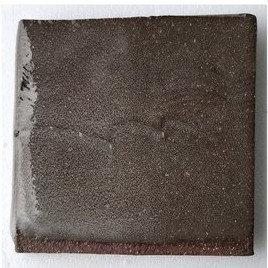
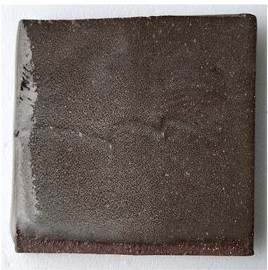
Published multiple files

diff --git a/src/site/notes/Ceramics/Glaze Pricing.md b/src/site/notes/Ceramics/Glaze Pricing.md
@@ -2,6 +2,7 @@
 {"dg-publish":true,"permalink":"/ceramics/glaze-pricing/"}
 ---
 
+
 Saturday, 28th June 2025 
 01:36 am
 # Oxidation Clear Glaze Cost Analysis
@@ -61,4 +62,3 @@ Saturday, 28th June 2025
 - **Ceramique 1110 frit** matches Ferro 3134 chemistry (high-calcium borosilicate, low alumina)—1:1 substitution  
 
 ---
-

diff --git a/src/site/notes/Ceramics/Recipes.md b/src/site/notes/Ceramics/Recipes.md
@@ -2,6 +2,7 @@
 {"dg-publish":true,"permalink":"/ceramics/recipes/"}
 ---
 
+
 # ***Low***
 
 ## Clear
@@ -48,7 +49,7 @@
 
 🔥 Cone 10
 
-  ![Leach 4321.png|300](/img/user/Assets/Images/Leach%204321.png)
+![Leach 4321.png|300](/img/user/Assets/Images/Leach%204321.png)
 
 - Soda Feldspar: 40 
 - Silica: 30 

diff --git a/src/site/notes/Home.md b/src/site/notes/Home.md
@@ -1,6 +1,8 @@
 ---
-{"dg-publish":true,"permalink":"/home/","tags":["gardenEntry"]}
+{"dg-publish":true,"permalink":"/home/","pinned":true,"tags":["gardenEntry"]}
 ---
+
+
 
 [[Ceramics/Instruction\|8 Session pottery class lesson plan]]
 [[Ceramics/Glazes\|Glazes]]

diff --git a/src/site/notes/Ceramics/Glazes.md b/src/site/notes/Ceramics/Glazes.md
@@ -2,6 +2,10 @@
 {"dg-publish":true,"permalink":"/ceramics/glazes/"}
 ---
 
+[[Ceramics/Quick Notes\|Quick Notes]]
 [[Ceramics/Recipes\|Recipes]]
 [[Ceramics/Glaze Pricing\|Glaze Pricing]]
-[[Ceramics/Quick Notes\|Quick Notes]]
+
+
+
+

diff --git a/src/site/notes/Ceramics/Instruction.md b/src/site/notes/Ceramics/Instruction.md
@@ -2,6 +2,7 @@
 {"dg-publish":true,"permalink":"/ceramics/instruction/"}
 ---
 
+
 ## **Session 1: Clay Prep & Centering**
 
 **Objectives:**

diff --git a/src/site/notes/Ceramics/Quick Notes.md b/src/site/notes/Ceramics/Quick Notes.md
@@ -3,6 +3,7 @@
 ---
 
 
+
 ---
 # 🔥 Temperature to Cone Table
 
